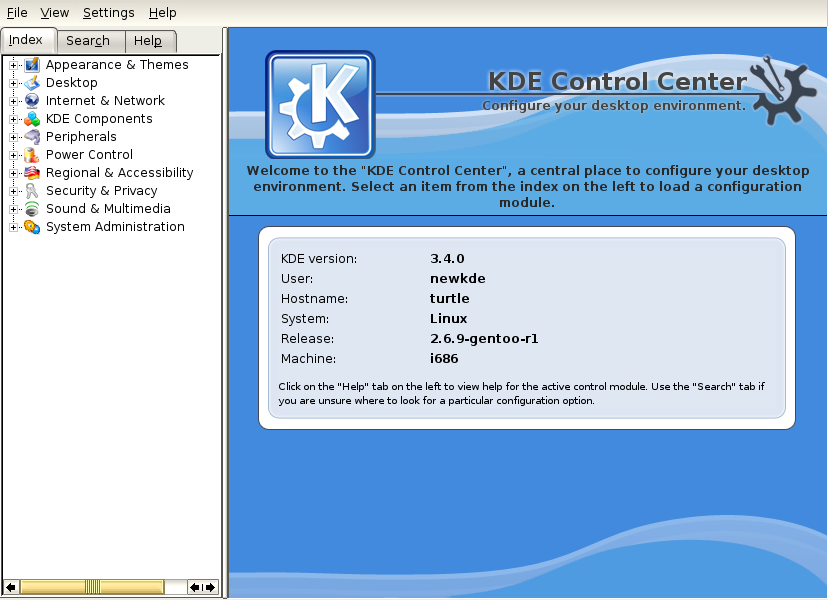
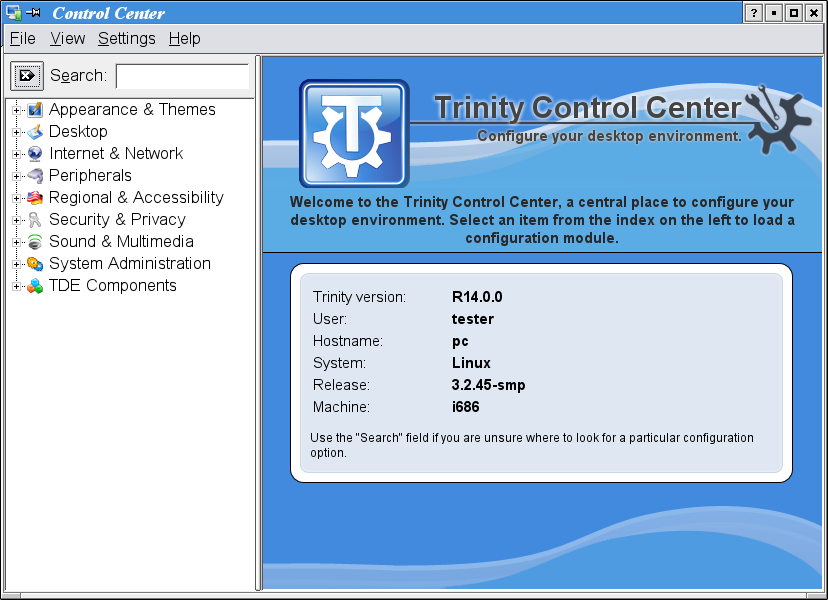
Update kcontrol screen capture in help handbook.

diff --git a/kcontrol/kcontrol/aboutwidget.cpp b/kcontrol/kcontrol/aboutwidget.cpp
@@ -44,7 +44,7 @@ static const char kcc_text[] = I18N_NOOP("Trinity Control Center");
 
 static const char title_text[] = I18N_NOOP("Configure your desktop environment.");
 
-static const char intro_text[] = I18N_NOOP("Welcome to the \"Trinity Control Center\", "
+static const char intro_text[] = I18N_NOOP("Welcome to the Trinity Control Center, "
                                 "a central place to configure your "
                                 "desktop environment. "
                                 "Select an item from the index on the left "
@@ -54,7 +54,7 @@ static const char kcc_infotext[] = I18N_NOOP("Trinity Info Center");
 
 static const char title_infotext[] = I18N_NOOP("Get system and desktop environment information");
 
-static const char intro_infotext[] = I18N_NOOP("Welcome to the \"Trinity Info Center\", "
+static const char intro_infotext[] = I18N_NOOP("Welcome to the Trinity Info Center, "
                                 "a central place to find information about your "
                                 "computer system.");
 
